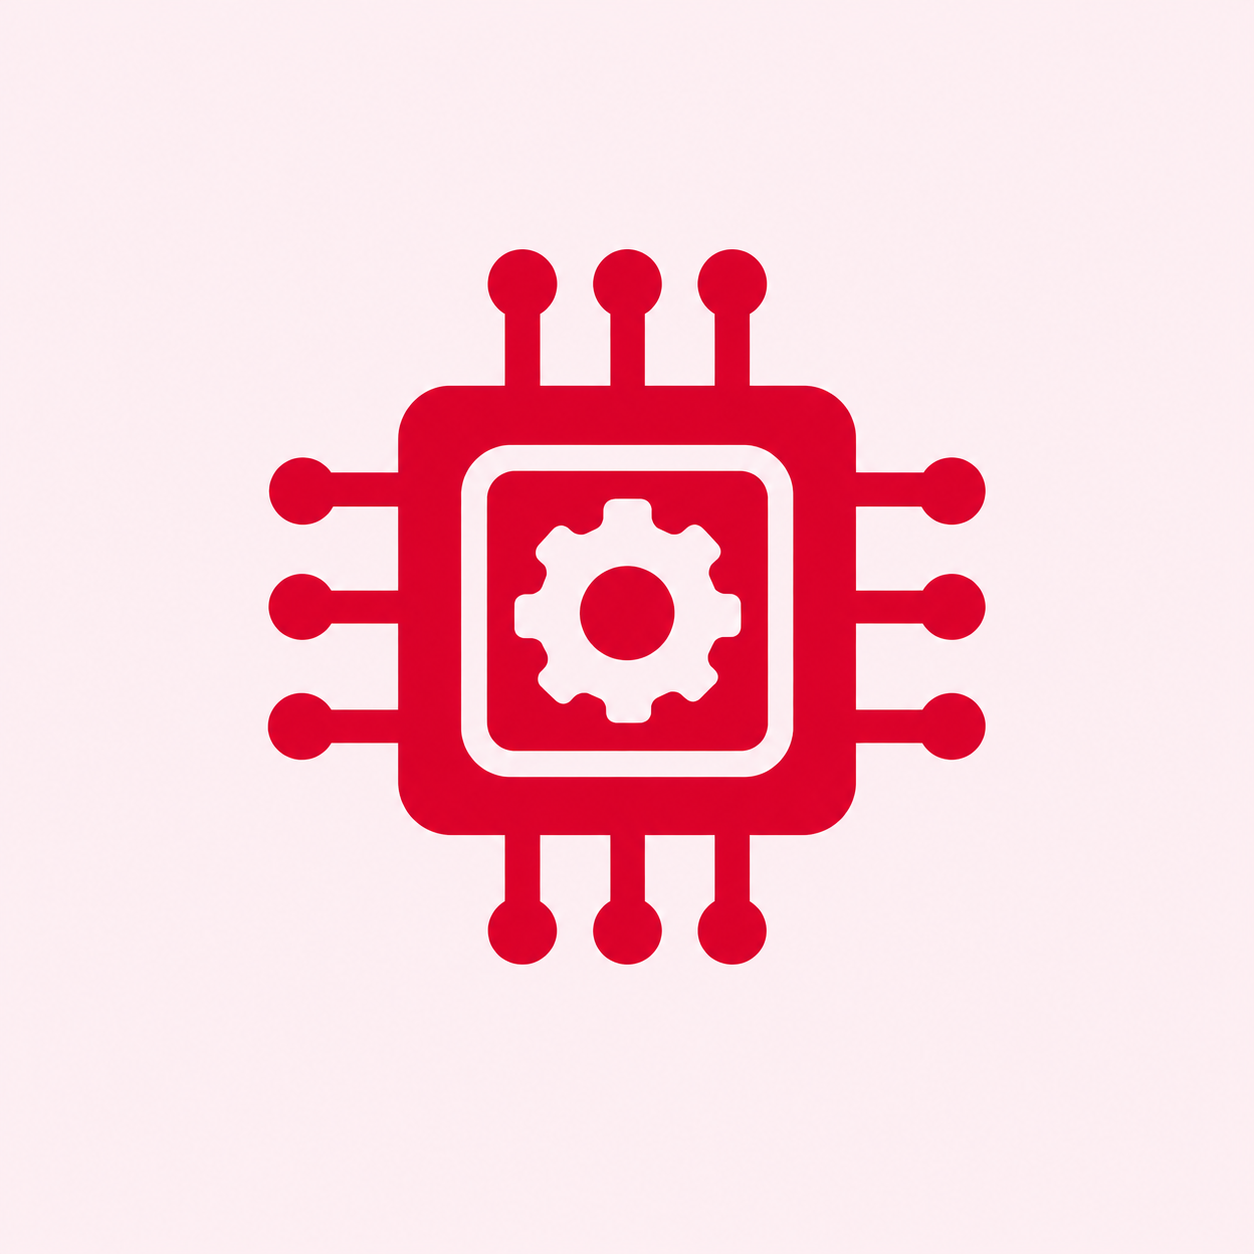
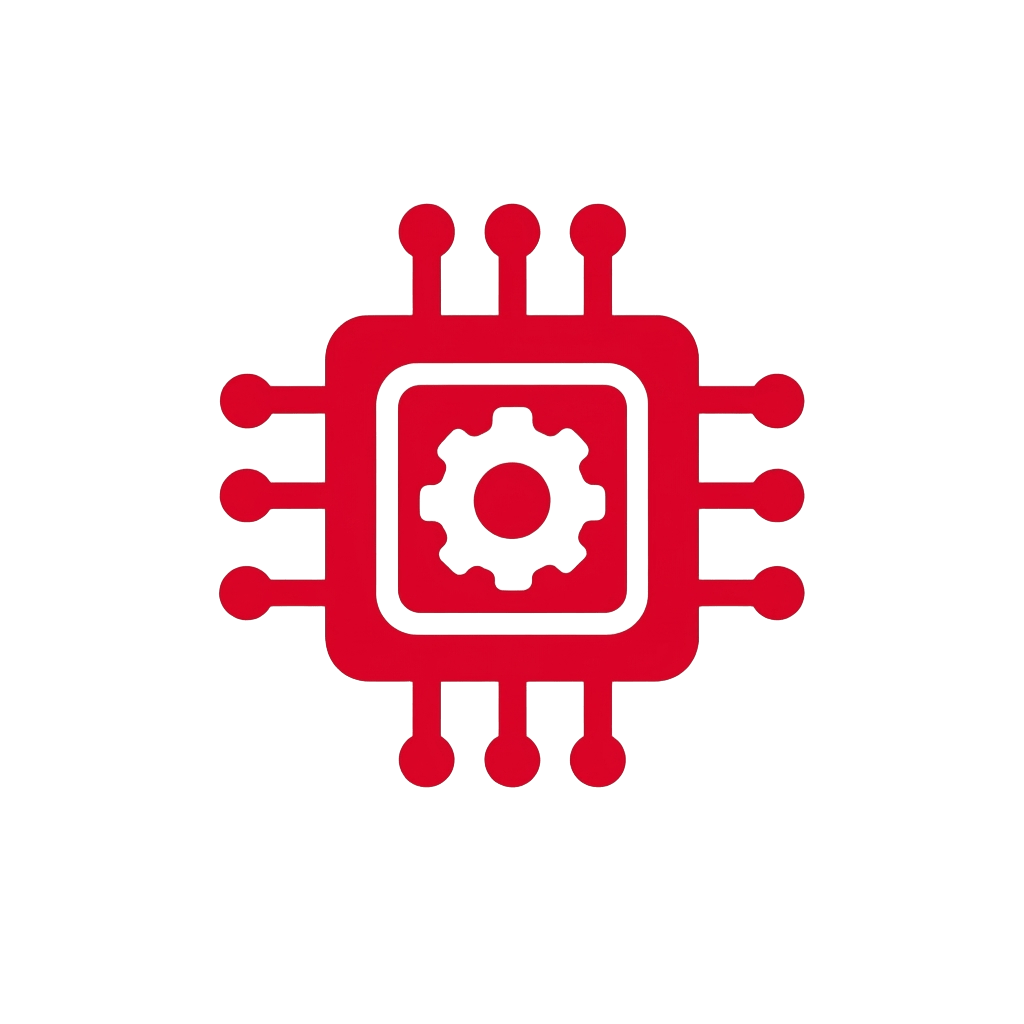
Foram adicionados icones compativeis com o projeto

diff --git a/index.html b/index.html
@@ -144,12 +144,12 @@
                 src="imagens/icone-entrega-rapida.png"
                 alt="Icone de entrega rapida"
               />
-              <p>Entrega em <br />30 minutos</p>
+              <p id="texto_entrega_rapida">Entrega em <br />30 minutos</p>
             </li>
             <span class="divider"></span>
             <li class="feature-item">
               <img
-                src="imagens/icone-atendimento.jpeg"
+                src="imagens/icone-atendimento.png"
                 alt="Icone de Atendimento especializado"
               />
               <p>Atendimento<br />especializado</p>
@@ -160,12 +160,12 @@
                 src="imagens/icone-tecnologia.png"
                 alt="Icone de Tecnologia a favor da sua saúde"
               />
-              <p>Tecnologia a favor<br />da sua saúde</p>
+              <p>Tecnologia para<br />sua saúde</p>
             </li>
             <span class="divider"></span>
             <li class="feature-item">
               <img
-                src="imagens/icone-saude.jpeg"
+                id="bem_Estar" src="imagens/icone-saude.png"
                 alt="Icone de Mais bem-estar para você"
               />
               <p>Mais bem-estar<br />para você</p>
@@ -192,7 +192,7 @@
     <!-- CARDS DE DESTAQUE -->
     <div class="footer-highlights">
         <a href="#" class="highlight-card highlight-card">
-            <span class="highlight-icon">🎧</span>
+            <span class="highlight-icon"><img src="imagens/central-de-atendimento.png" alt="central de atendimento"></span>
             <div>
                 <strong>Central de atendimento</strong>
                 <p>Confira as dúvidas mais frequentes ou fale com a gente.</p>
@@ -201,7 +201,7 @@
         </a>
 
         <a href="#" class="highlight-card highlight-card">
-            <span class="highlight-icon">📱</span>
+            <span class="highlight-icon"><img src="imagens/icone-app.png" alt="icone do app"></span>
             <div>
                 <strong>Baixe o nosso aplicativo</strong>
                 <p>E tenha descontos e benefícios exclusivos!</p>
@@ -263,10 +263,10 @@
 
             <h4 class="footer-social-title">Nossas Redes</h4>
             <div class="footer-social">
-                <a href="#" aria-label="Facebook">📘</a>
-                <a href="#" aria-label="Instagram">📷</a>
-                <a href="#" aria-label="X (Twitter)">✖</a>
-                <a href="#" aria-label="LinkedIn">💼</a>
+                <a href="#" aria-label="Facebook"><img src="imagens/redes_sociais/facebook.png" alt="Facebook"></a>
+                <a href="#" aria-label="Instagram"><img src="imagens/redes_sociais/instagram.png" alt="Instagram"></a>
+                <a href="#" aria-label="X (Twitter)"><img src="imagens/redes_sociais/twitter.png" alt="X (Twitter)"></a>
+                <a href="#" aria-label="LinkedIn"><img src="imagens/redes_sociais/linkedin.png" alt="LinkedIn"></a>
             </div>
         </div>
     </div>
@@ -274,7 +274,7 @@
     <!-- FAIXA ORIGINAL: SEUS 3 ÍCONES -->
     <div class="footer-bottom">
         <div class="footer-bottom-item">
-            <span class="footer-icon">📞</span>
+            <span class="footer-icon"><img src="imagens/icone-atendimento-telefonico.png" alt=""></span>
             <div>
                 <strong>Telefone:</strong>
                 <p>4002-8922</p>
@@ -284,7 +284,7 @@
         <span class="footer-divider"></span>
 
         <div class="footer-bottom-item">
-            <span class="footer-icon">✉</span>
+            <span class="footer-icon"><img src="imagens/gmail.png" alt="Gmail"></span>
             <div>
                 <strong>contato@danfarma.com.br</strong>
                 <p>Estamos sempre à disposição!</p>
@@ -294,7 +294,7 @@
         <span class="footer-divider"></span>
 
         <div class="footer-bottom-item">
-            <span class="footer-icon">🛡</span>
+            <span class="footer-icon"><img src="imagens/escudo.png" alt="Escudo"></span>
             <div>
                 <strong>Política de Privacidade</strong>
                 <p>Conheça nossa política de privacidade!</p>

diff --git a/css/footer.css b/css/footer.css
@@ -35,6 +35,11 @@ background-color: #f2f0ee;
   font-size: 24px;
 }
 
+.highlight-icon img{
+  height: 50px;
+  width: 50px;
+}
+
 .highlight-card div {
   flex: 1;
 }
@@ -93,22 +98,15 @@ background-color: #f2f0ee;
   gap: 12px;
 }
 
-.footer-social a {
-  width: 32px;
-  height: 32px;
-  display: flex;
-  align-items: center;
-  justify-content: center;
-  background-color: #1a1a2e;
-  border-radius: 50%;
-  font-size: 14px;
+.footer-social img{
+  width: 25px;
+  height: 25px;
 }
 
 /* FAIXA DOS 3 ÍCONES */
 .footer-bottom {
   display: flex;
   align-items: center;
-  padding-top: 24px;
   border-top: 1px solid #e5e5e5;
 }
 
@@ -122,6 +120,12 @@ background-color: #f2f0ee;
 .footer-icon {
   font-size: 22px;
   color: #e31b3b;
+}
+
+.footer-icon img{
+  height: 50px;
+  width: 50px;
+  padding-top: 10px;
 }
 
 .footer-bottom-item strong {

diff --git a/css/main.css b/css/main.css
@@ -45,8 +45,13 @@
 }
 
 .hero-features img{
-    width: 100px;
+    width: 110px;
     height: 100px;
+}
+
+#bem_Estar{
+    width: 130px;
+    transform: translateX(-15px);
 }
 
 .feature-item {
@@ -54,6 +59,10 @@
     flex-direction: column;
     align-items: flex-start;
     gap: 8px;
+}
+
+#texto_entrega_rapida{
+    padding-left: 15px;
 }
 
 .feature-icon {
@@ -64,7 +73,7 @@
 .feature-item p {
     font-size: 13px;
     color: #1a1a2e;
-    margin-left: 20px;
+    margin-left: 10px;
     line-height: 1.4;
     font-weight: 700;
 }
